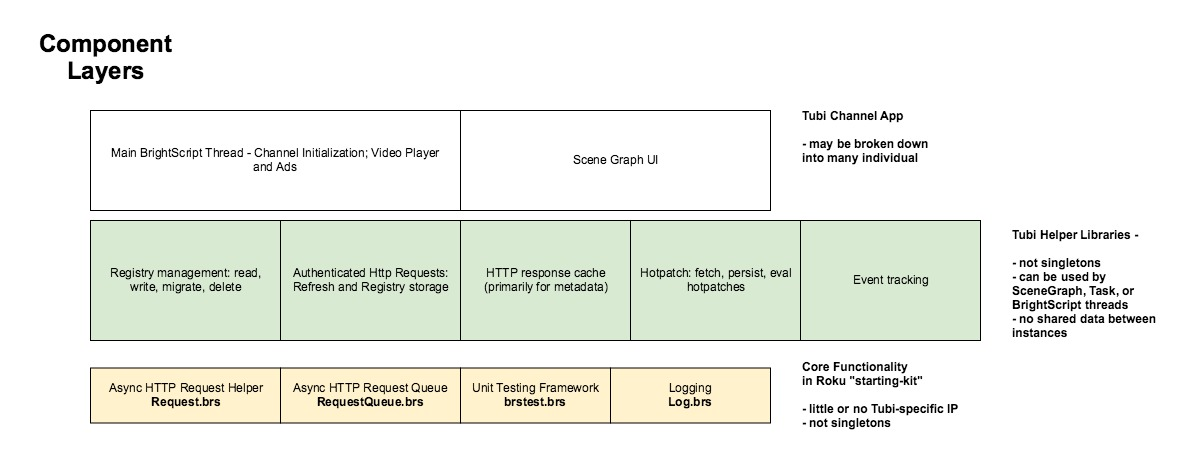
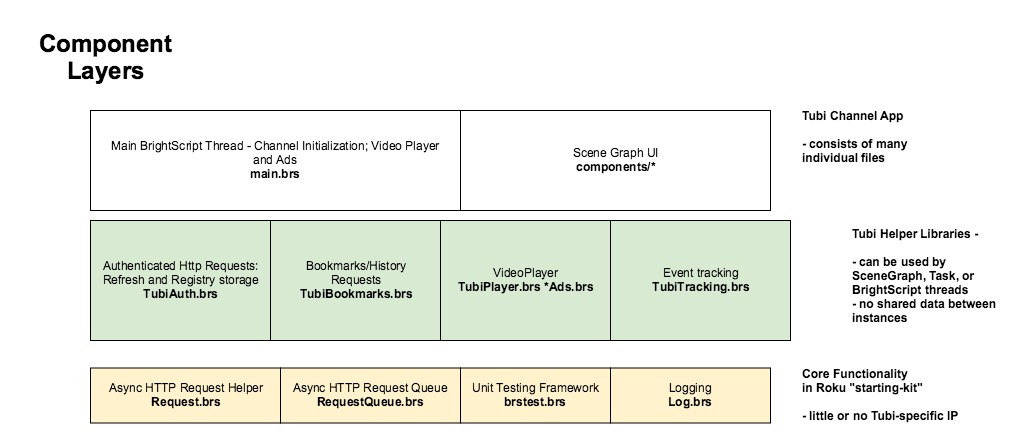
Update documentation to match the current implementation (#91)
* Update documentation to match the current implementation

* Correct tracking interfaces

diff --git a/docs/scene_graph_channel_design.md b/docs/scene_graph_channel_design.md
@@ -217,9 +217,6 @@ UI work will be addressed by incrementally adding screens and functionality. The
 
 ## Open Issues
 
-- Hotpatching of library functions won't work across the thread boundaries
-- Global settings for Scene Graph need to be set before initializing the graph nodes, but ideally after being hotpatched
-- Metadata cache needs to a method for communicating responses to the requesting node.
 
 ## Reference
 
